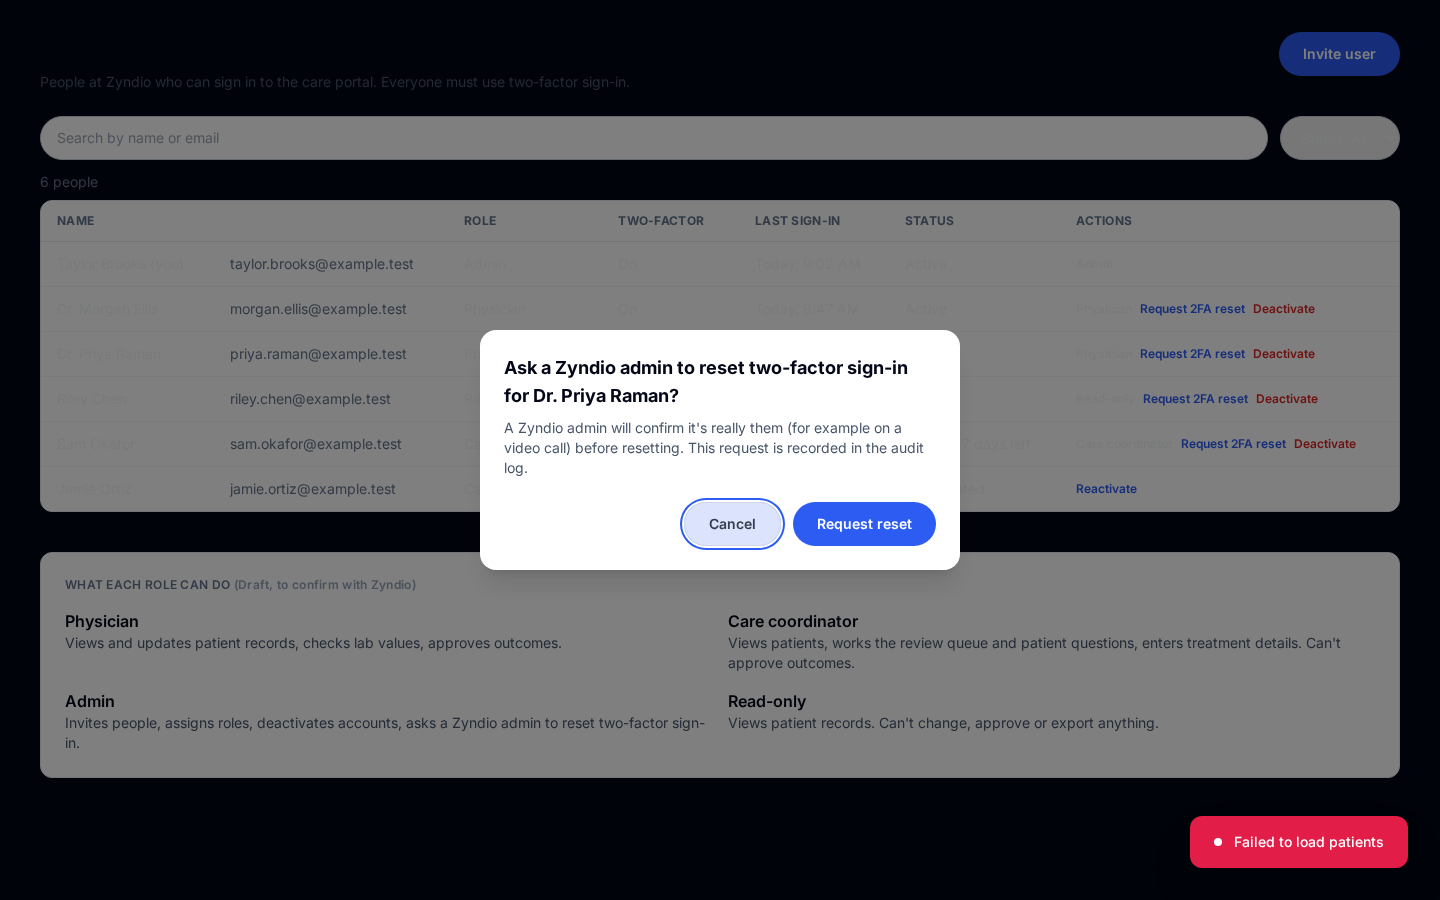
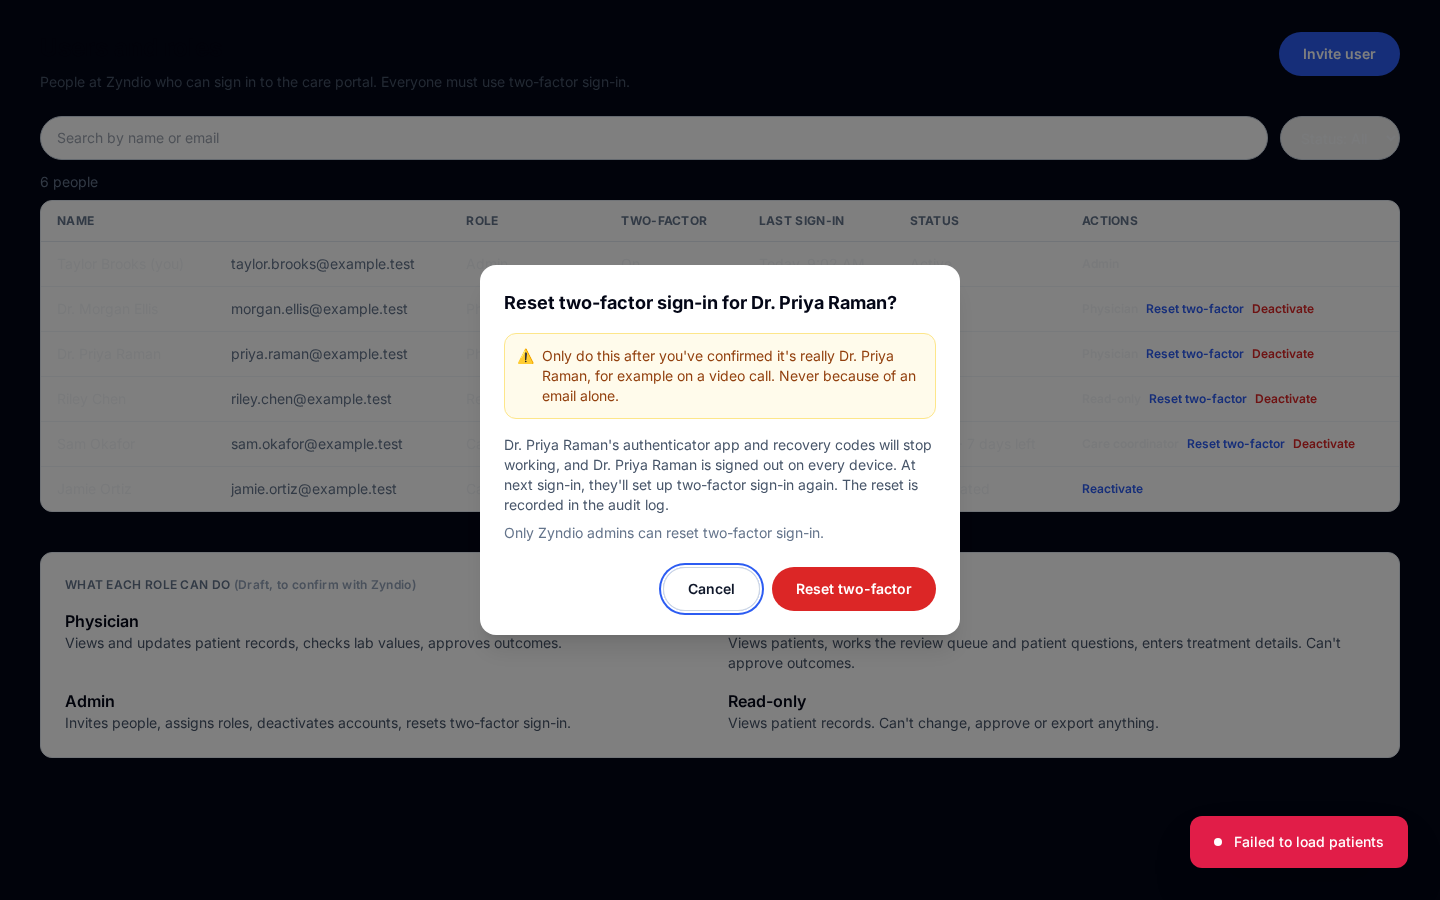
docs(screenshots): TC-011 Ava reset-2fa / request-2fa-reset / reset-requested
Light+dark PNGs for Users & roles dialogs for Ava sign-off. Copies also
under work/screenshots/tc-011/07-users-roles/ (outside this git tree).

diff --git a/docs/screenshots/tc-005/INDEX.md b/docs/screenshots/tc-005/INDEX.md
@@ -1,21 +1,7 @@
 # TC-005 admin screenshots
 
-Generated by `scripts/demo_screenshots_admin.py` (see `scripts/screenshots-admin-local.sh`) from the
-`/__preview` harness (`npm run build:preview`). Only 07-users-roles (this step's screen) is wired into
-the harness - see `pages/preview/PreviewHarness.tsx` for why 01-06 aren't yet; their screenshots are a
-follow-up rather than reworking already-shipped pages under this step's scope.
-
 | Screen | State | Light | Dark |
 |---|---|---|---|
-| 07-users-roles | deactivate-confirm | [png](07-users-roles/deactivate-confirm--light.png) | [png](07-users-roles/deactivate-confirm--dark.png) |
-| 07-users-roles | deactivated | [png](07-users-roles/deactivated--light.png) | [png](07-users-roles/deactivated--dark.png) |
-| 07-users-roles | default | [png](07-users-roles/default--light.png) | [png](07-users-roles/default--dark.png) |
-| 07-users-roles | empty | [png](07-users-roles/empty--light.png) | [png](07-users-roles/empty--dark.png) |
-| 07-users-roles | error | [png](07-users-roles/error--light.png) | [png](07-users-roles/error--dark.png) |
-| 07-users-roles | invite | [png](07-users-roles/invite--light.png) | [png](07-users-roles/invite--dark.png) |
-| 07-users-roles | invite-sent | [png](07-users-roles/invite-sent--light.png) | [png](07-users-roles/invite-sent--dark.png) |
-| 07-users-roles | invite-validation | [png](07-users-roles/invite-validation--light.png) | [png](07-users-roles/invite-validation--dark.png) |
-| 07-users-roles | last-admin | [png](07-users-roles/last-admin--light.png) | [png](07-users-roles/last-admin--dark.png) |
-| 07-users-roles | loading | [png](07-users-roles/loading--light.png) | [png](07-users-roles/loading--dark.png) |
+| 07-users-roles | request-2fa-reset | [png](07-users-roles/request-2fa-reset--light.png) | [png](07-users-roles/request-2fa-reset--dark.png) |
 | 07-users-roles | reset-2fa | [png](07-users-roles/reset-2fa--light.png) | [png](07-users-roles/reset-2fa--dark.png) |
-| 07-users-roles | role-confirm | [png](07-users-roles/role-confirm--light.png) | [png](07-users-roles/role-confirm--dark.png) |
+| 07-users-roles | reset-requested | [png](07-users-roles/reset-requested--light.png) | [png](07-users-roles/reset-requested--dark.png) |
